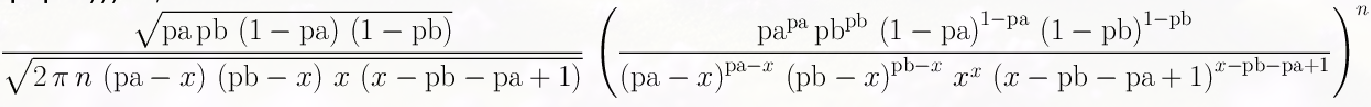
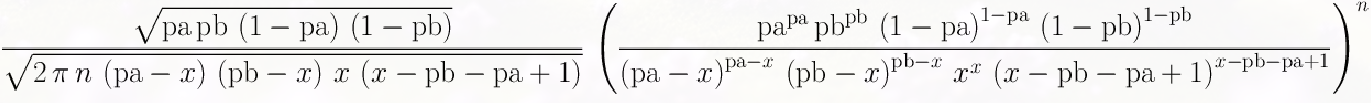
Add more plots

diff --git a/README.md b/README.md
@@ -702,24 +702,25 @@ Or as rendered by Maxima
 
 ![](plots/PAB-Stirling-formula.png)
 
-This is important because it allows us to calculate `Pr(pAB = x)` for
-very high values of n.
+This allows us to calculate `Pr(pAB = x)` for very high values of n.
 
-Finally we can plot these distrolets first using combinations varying
-`n` from 50 to 400.
+Let us start by plotting distrolets for `pA=pB=0.5` using combinations
+varying `n` from 50 to 400.
 
 ![](plots/conjunction-Gamma-n_400.png)
 
 Already we can see a clear trend where the distrolet is shrinking as
 `n` goes up.
 
-Then by using Stirling approximation, we can push `n` much larger and
+Then, using Stirling approximation, we can push `n` much larger and
 see that the distrolet tends, at least visually, to a Dirac delta
 distribution.
 
 ![](plots/conjunction-Stirling-n_400.png)
 ![](plots/conjunction-Stirling-n_4000.png)
 ![](plots/conjunction-Stirling-n_40000.png)
+![](plots/conjunction-Stirling-n_400000.png)
+![](plots/conjunction-Stirling-n_4000000.png)
 
 I want to provided an analytical proof of it, but I think it is
 already convincing enough that it converges to a Dirac delta
